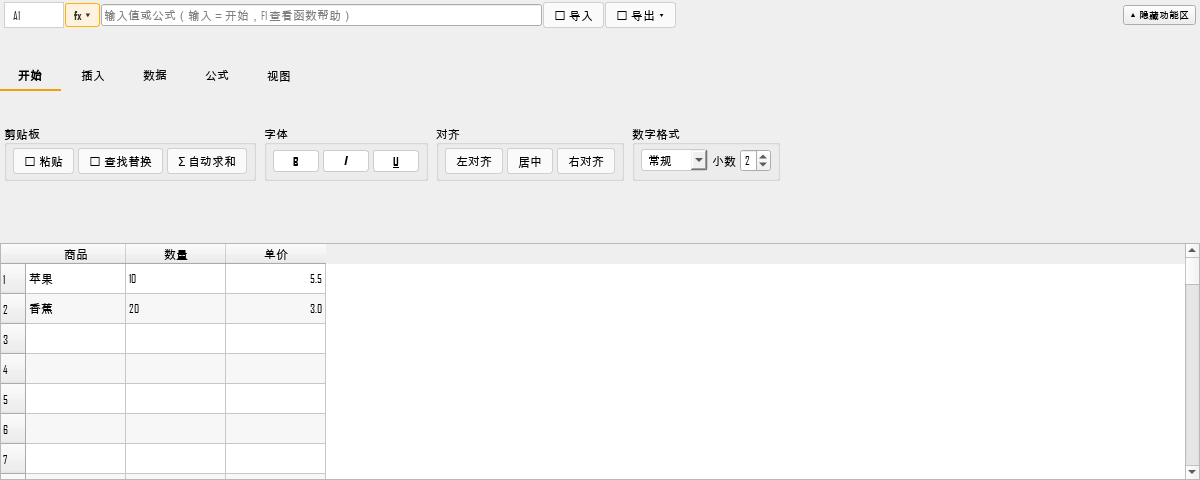
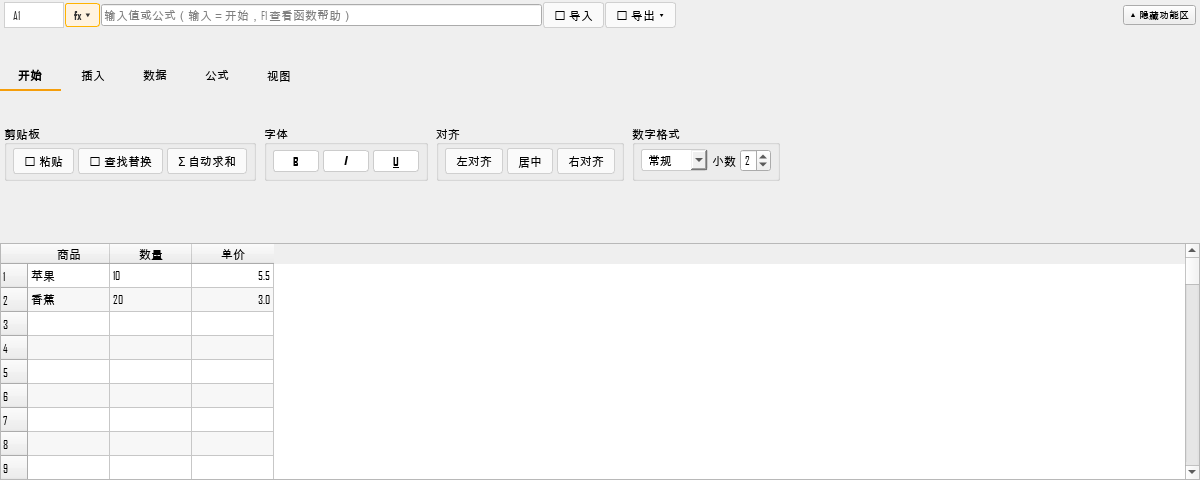
feat(beesheet): 初始网格扩大为 5000×52

diff --git a/beeoffice/plugins/beesheet_model.py b/beeoffice/plugins/beesheet_model.py
@@ -19,7 +19,8 @@ class SheetDataModel(QAbstractTableModel):
 
     CHUNK_SIZE = 5000
     PRELOAD_MARGIN = 2000
-    DEFAULT_ROWS = 1000
+    DEFAULT_ROWS = 5000
+    DEFAULT_COLS = 52
     MIN_ROWS = 100
 
     def __init__(self, parent=None):
@@ -45,7 +46,7 @@ class SheetDataModel(QAbstractTableModel):
         self._init_empty()
 
     # ==================== 初始化 ====================
-    def _init_empty(self, rows=None, cols=10):
+    def _init_empty(self, rows=None, cols=None):
         """
         初始化空表格
 
@@ -53,6 +54,8 @@ class SheetDataModel(QAbstractTableModel):
         """
         if rows is None:
             rows = self.DEFAULT_ROWS
+        if cols is None:
+            cols = self.DEFAULT_COLS
         self._full_df = pd.DataFrame(
             '',
             index=range(rows),

diff --git a/beeoffice/plugins/beesheet_ui_mixin.py b/beeoffice/plugins/beesheet_ui_mixin.py
@@ -421,6 +421,9 @@ class UIMixin:
         self.table_view.horizontalHeader().setSectionResizeMode(
             QHeaderView.Interactive
         )
+        self.table_view.horizontalHeader().setDefaultSectionSize(82)
+        self.table_view.horizontalHeader().setMinimumSectionSize(48)
+        self.table_view.verticalHeader().setDefaultSectionSize(24)
         self.table_view.setAlternatingRowColors(True)
         self.table_view.horizontalHeader().setSectionsClickable(True)
         self.table_view.horizontalHeader().sectionClicked.connect(

diff --git a/tests/qt/test_beesheet_model_more.py b/tests/qt/test_beesheet_model_more.py
@@ -15,7 +15,7 @@ def make_model(df=None):
 def test_default_and_dataframe(qtbot):
     m = make_model()
     assert m.rowCount() == m.DEFAULT_ROWS
-    assert m.columnCount() == 10
+    assert m.columnCount() == m.DEFAULT_COLS
     m.set_full_dataframe(pd.DataFrame({"A": [1, 2], "B": ["x", "y"]}))
     assert m.columnCount() == 2
     assert m.rowCount() == m.DEFAULT_ROWS

diff --git a/CHANGELOG.md b/CHANGELOG.md
@@ -12,6 +12,8 @@
 > BeeSheet 功能区重构：从散乱四行按钮改为 WPS 风格分类 Ribbon。
 
 ### BeeSheet UI
+- 初始网格从 **1000×10** 扩大到 **5000×52**（A–AZ）；
+- 默认列宽 82px、行高 24px，可视列数与 WPS 更接近；
 - 新增 5 个分类页签：开始 / 插入 / 数据 / 公式 / 视图；
 - 每个分类按功能分组（剪贴板、字体、对齐、数字格式、对象、函数、名称与审计、冻结窗格等）；
 - 隐藏/展开功能区按钮保留；

diff --git a/docs/BeeSheet-分类功能区-2026-11-13.md b/docs/BeeSheet-分类功能区-2026-11-13.md
@@ -23,6 +23,13 @@
 
 顶部始终保留：名称框、fx、公式栏、导入、导出、加载进度、状态、隐藏功能区。
 
+## 初始网格
+
+- 行数：5000（原 1000）
+- 列数：52（A–AZ，原 10）
+- 默认列宽 82px，默认行高 24px，可视列数接近 WPS；
+- 空表仍按需显示，不把空行写入数据。
+
 ## 截图
 
 ![BeeSheet Ribbon](beesheet-ribbon-2026-11-13.png)
